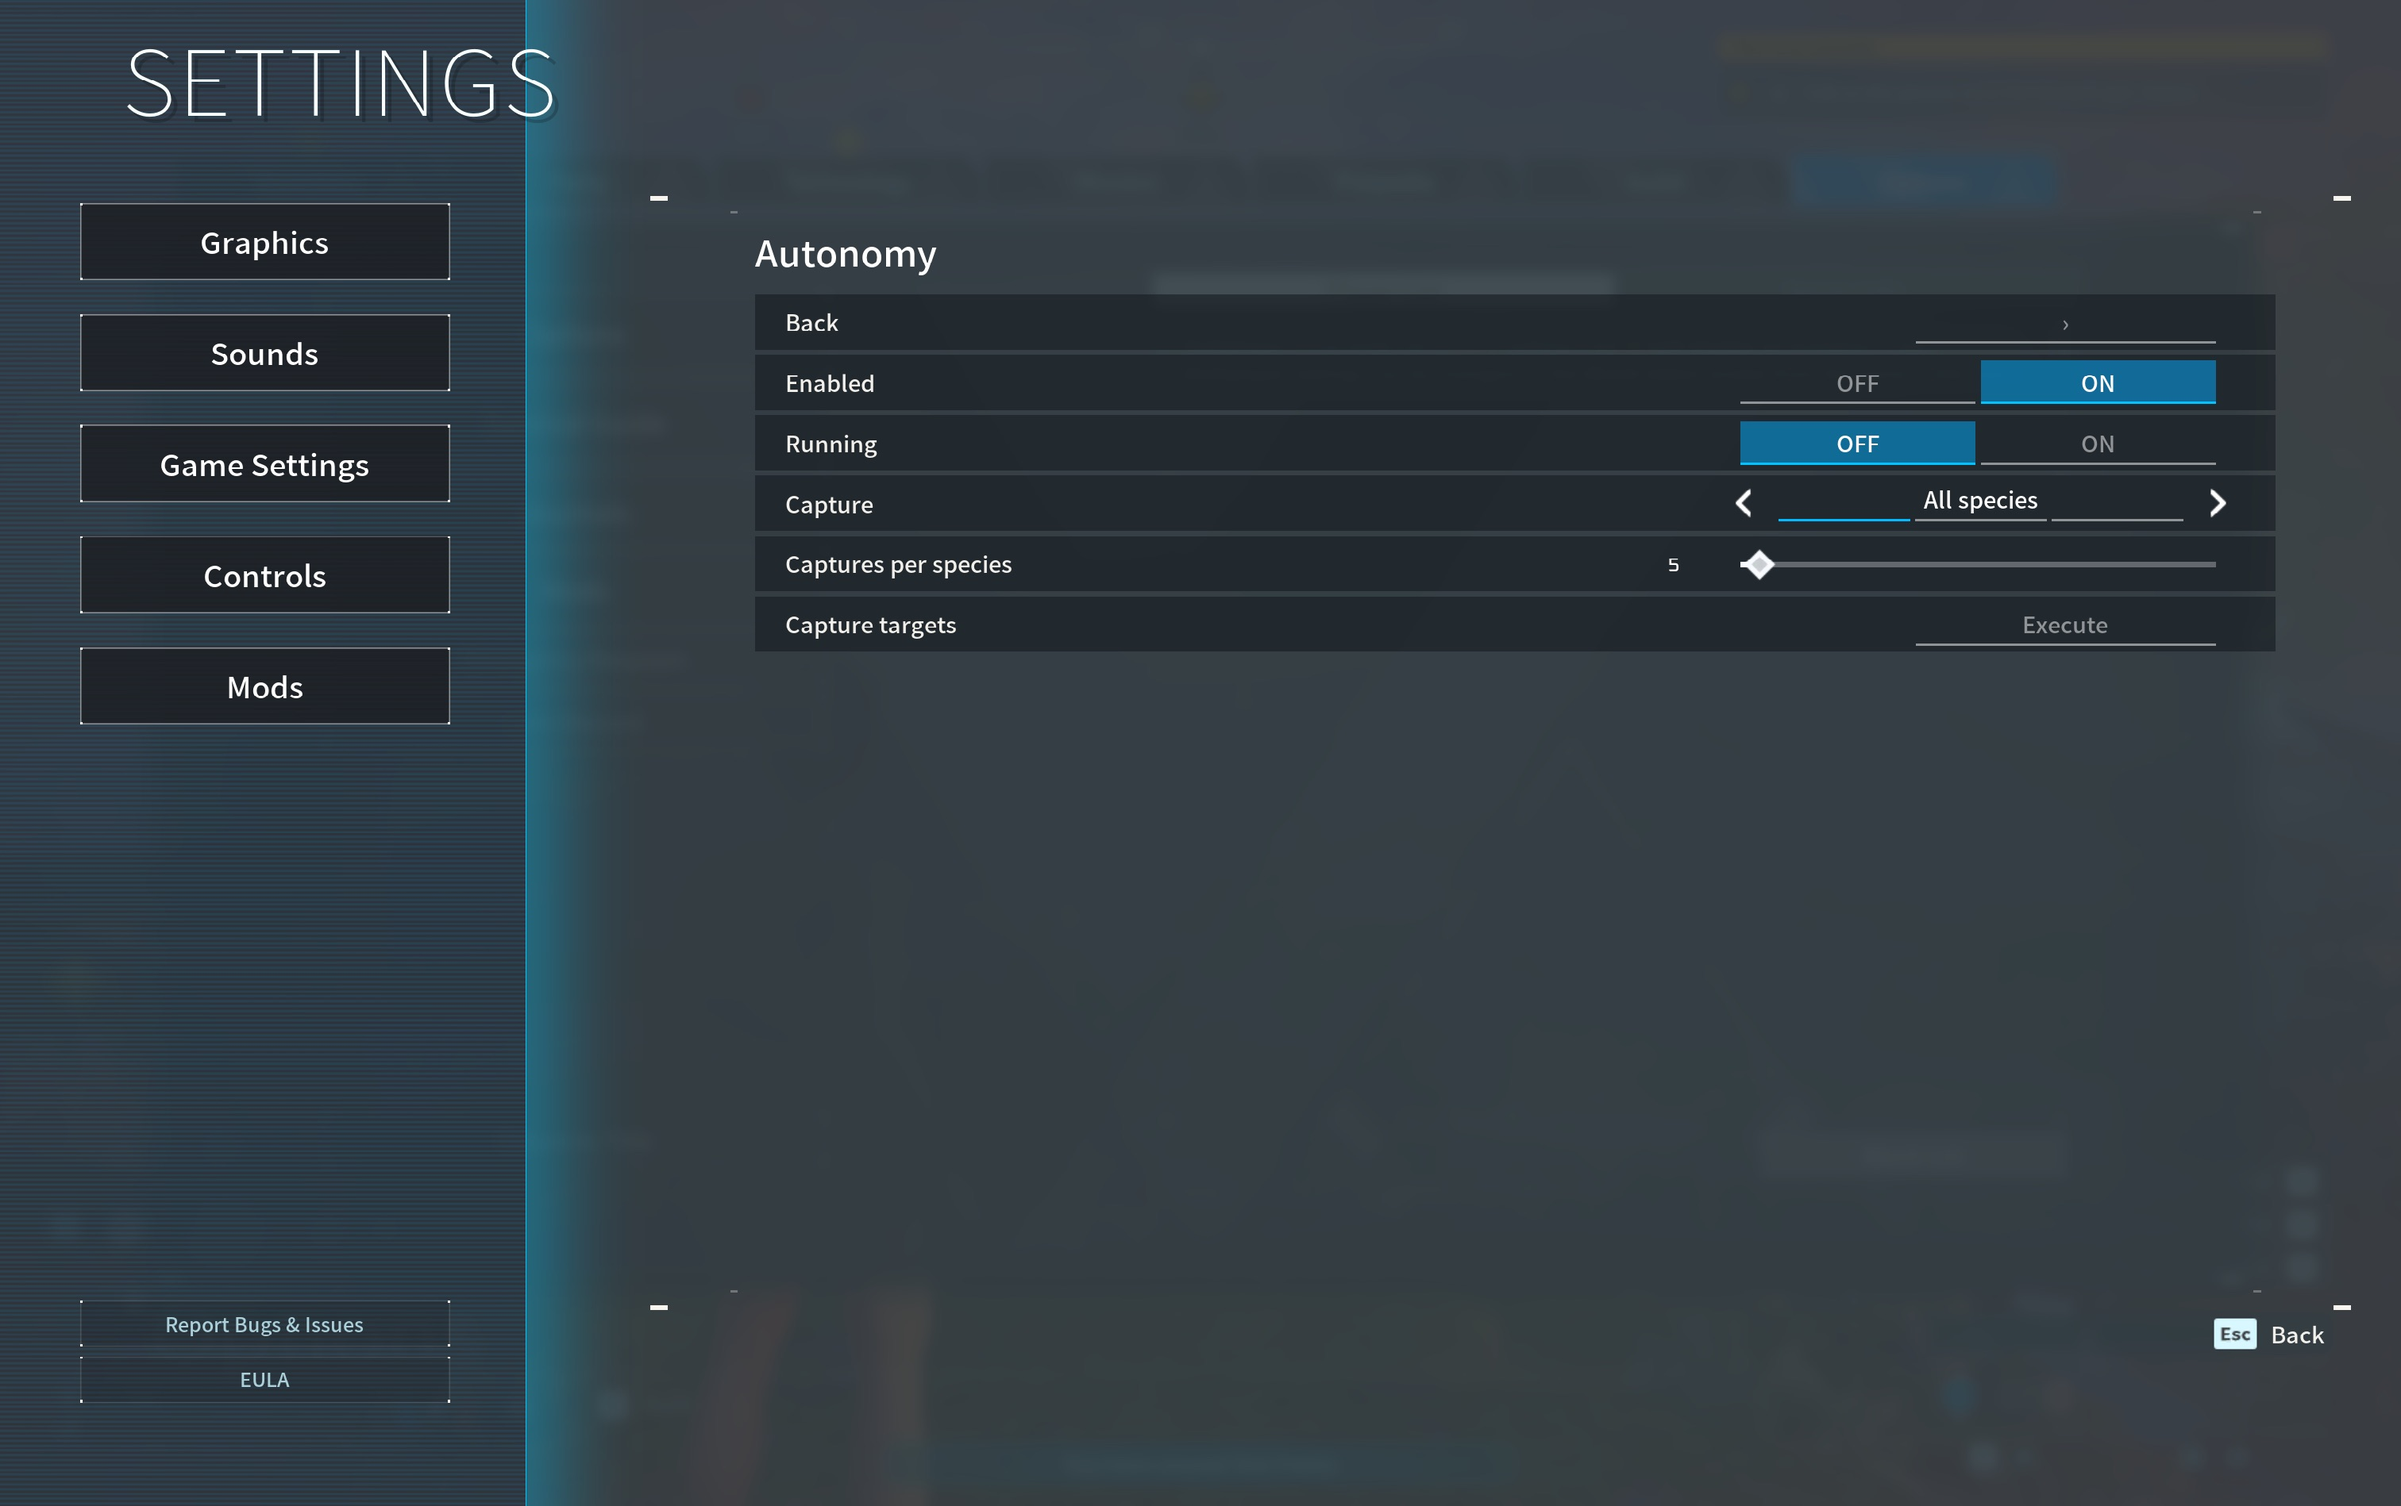
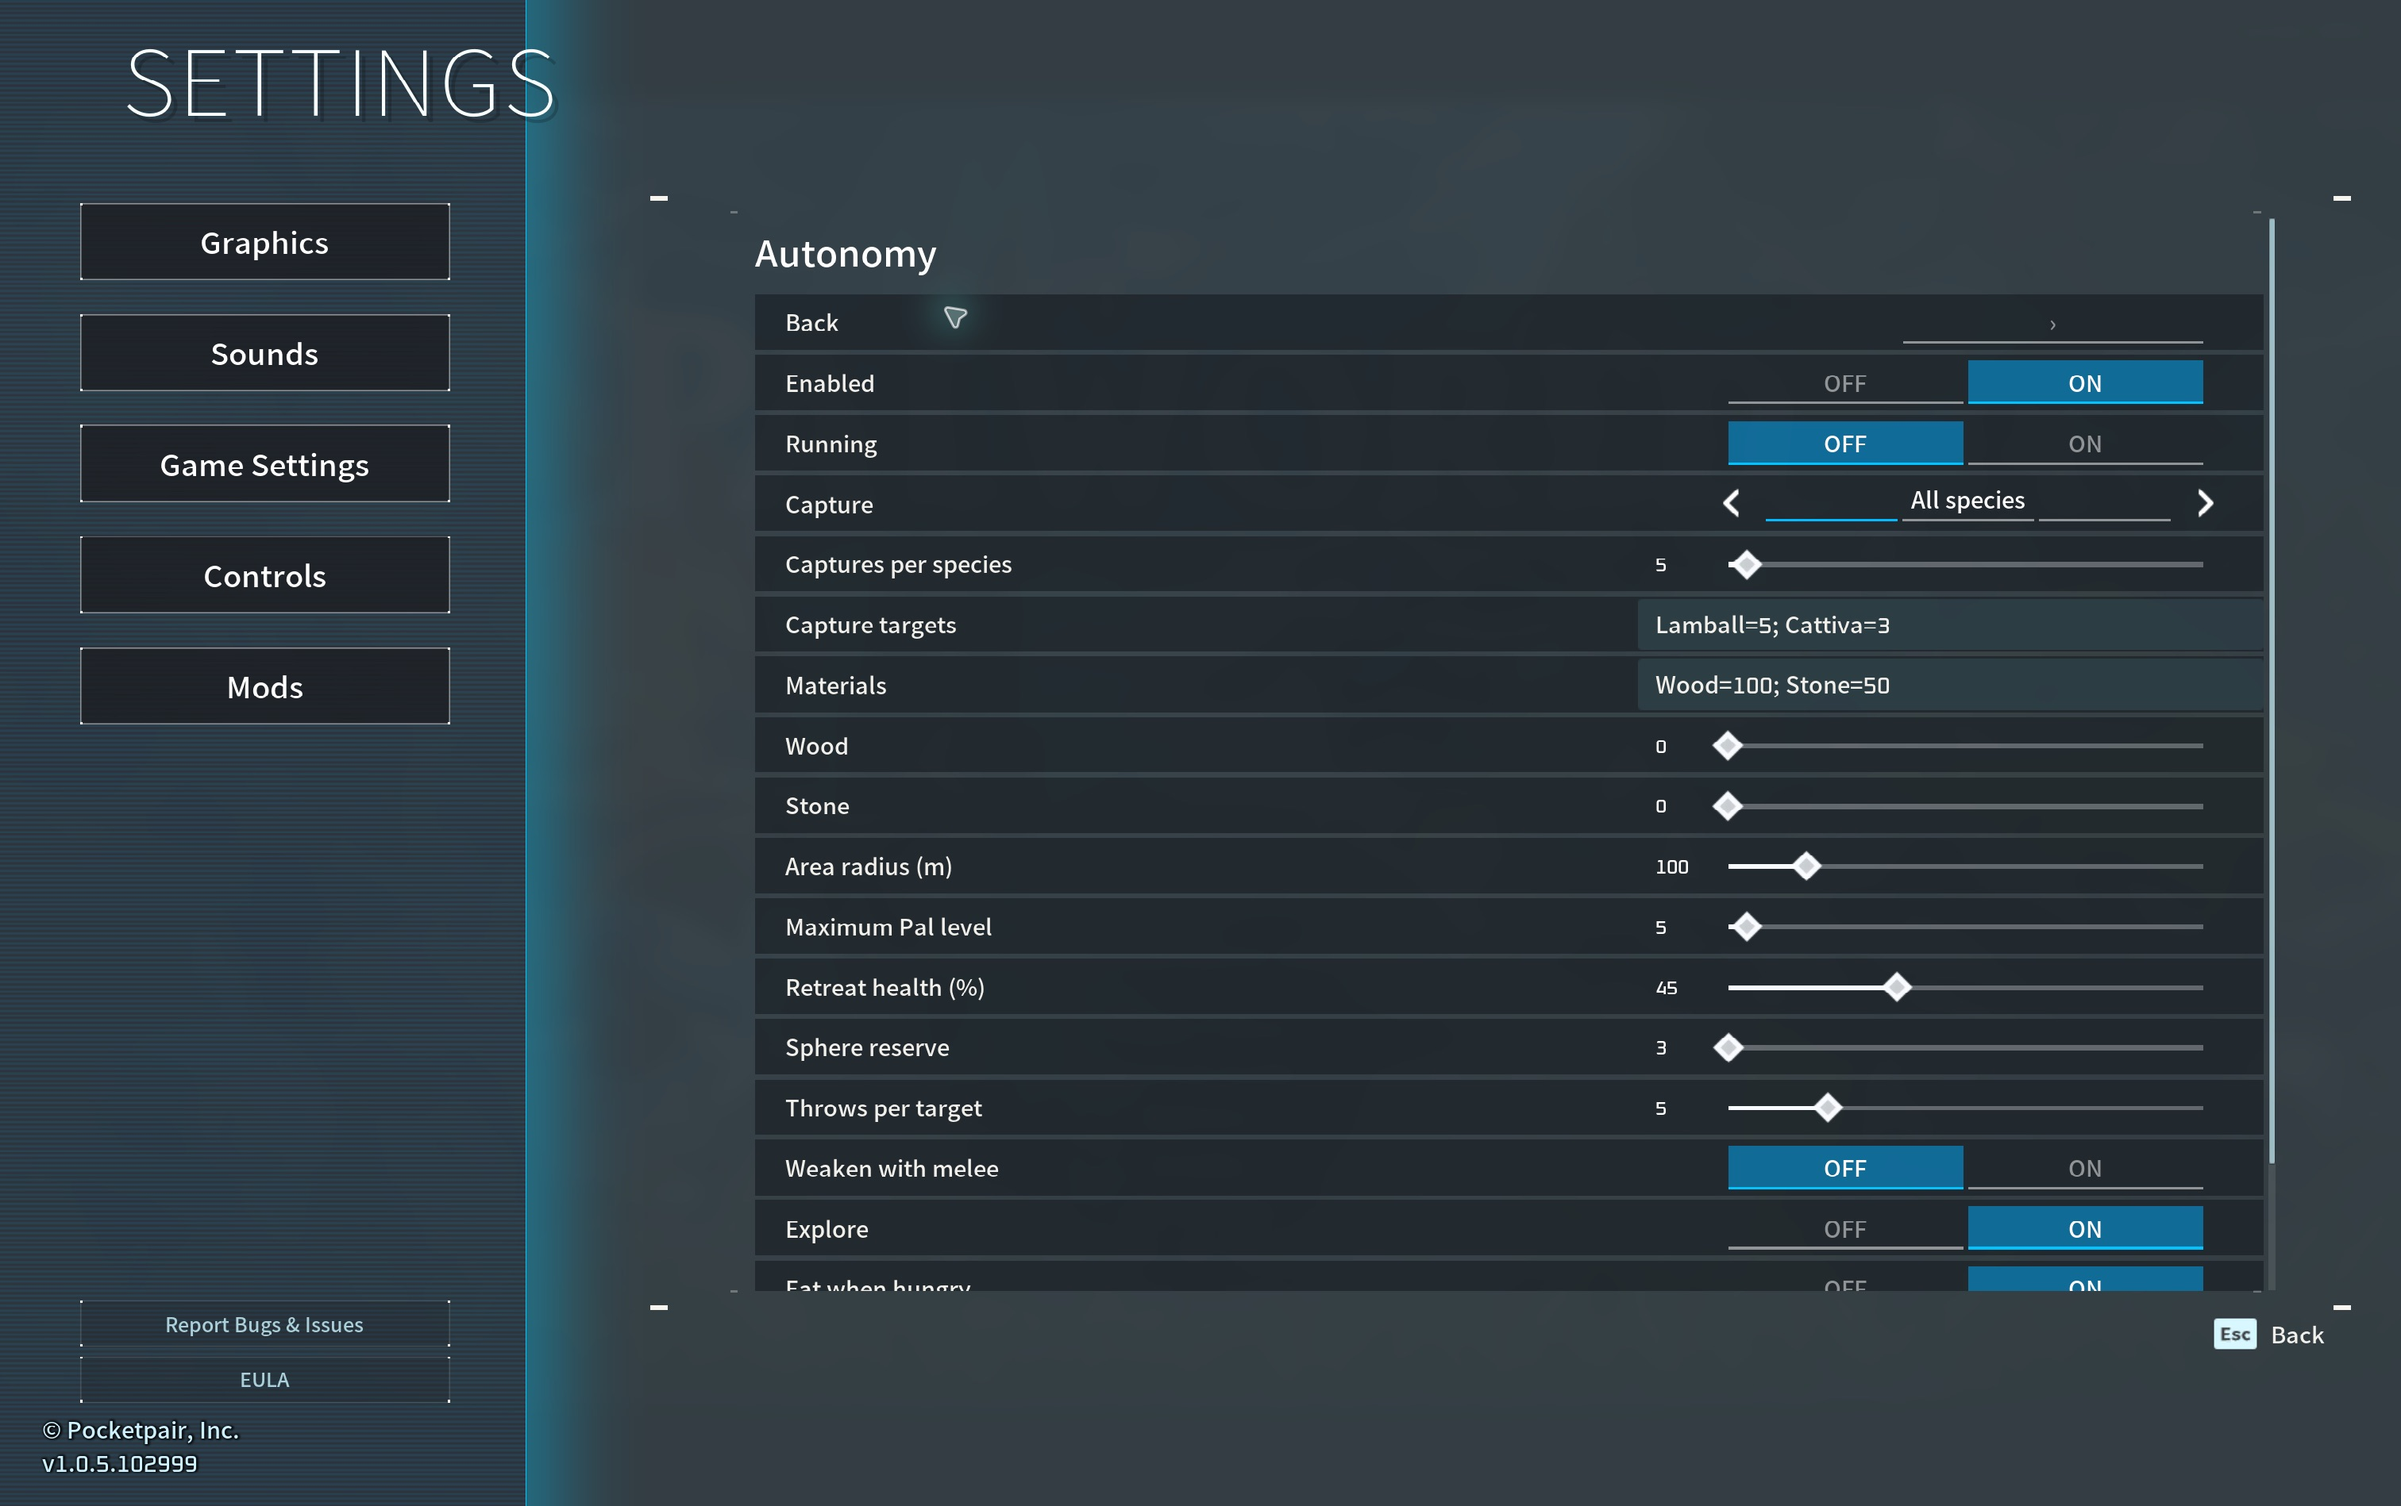
Document complete in-game Autonomy configuration

diff --git a/README.md b/README.md
@@ -24,7 +24,7 @@ local controller act inside the game. No AI account or MCP client is required.
 
 No separate mod download or game restart is needed. Requires Apple silicon,
 macOS 14+, the supported Mac App Store game (app 1.0.8, build 102999), and
-Palworld Mods 0.3.0 or newer. Use the latest app for fixes.
+Palworld Mods 0.4.3 or newer for the complete native settings menu.
 The [app guide](https://github.com/lansbe/palworld-mods#install-in-five-steps)
 also covers macOS first-launch approval.
 
@@ -44,31 +44,31 @@ and aligns the camera before actions. Capture history confirms captures;
 inventory changes confirm gathering. Travel or disabling releases held inputs,
 and death stops the session. It does not spawn supplies or bypass the host's rules.
 
-### Advanced goals and current menu limitation
+### Configure advanced goals in the game
 
-The controller supports selected species, materials, a search radius, a level
-ceiling, sphere reserves, retreat health and a session time limit.
+Open **Options → Mods → Autonomy**. Every setting is available here; scroll down
+for exploration, food, returning home and the session time limit.
 
-| Goal | Value |
+| Goal | Native setting |
 | --- | --- |
-| Bring lifetime captures up to a target | All species, with a captures-per-species quota. |
-| Capture selected species | Selected, with targets such as **Lamball=5; Cattiva=3**. |
-| Gather resources | Materials such as **Wood=100; Stone=50**, or the Wood/Stone goals. |
-| Gather without capturing | Capture mode Off, with material goals set. |
+| Bring lifetime captures up to a target | **Capture → All species**, then **Captures per species**. |
+| Capture selected species | Enter **Lamball=5; Cattiva=3** in **Capture targets**, then choose **Capture → Selected**. |
+| Gather resources | Enter **Wood=100; Stone=50** in **Materials**, or use the **Wood** and **Stone** sliders. |
+| Gather without capturing | Set material goals first, then choose **Capture → Off**. |
 
-**Known issue in Palworld Mods 0.4.2:** in the documented session, the native
-Autonomy panel stopped at Capture targets, showing an inactive Execute control.
-The text fields and later settings were not available in that session. Do not
-expect to configure all advanced goals from that panel until this is fixed.
+Click a text field to edit it, then press **Enter** or click another control to
+save. Use `name=quantity` entries separated by semicolons. Do not specify Wood or
+Stone in both the text field and its dedicated slider. Invalid text shows an
+error beside the field and keeps the last valid saved value; correct it to save.
+Settings are remembered when you close the menu and restart the game.
 
-Advanced users can configure those goals through the optional
-[Palworld MCP bridge](https://github.com/lansbe/palworld-mcp). With the game open,
-this example sets goals while keeping the controller stopped:
+You can also change the search radius, maximum Pal level, retreat health, sphere
+reserve, throws per target and melee weakening. Keep **Running** off while
+preparing goals, then turn it on in a world when ready. It never starts
+automatically when you launch the game.
 
-    ~/.local/bin/palworld-mcp call mods.configure '{"mod":"autonomy","settings":{"running":false,"capture_mode":"selected","targets":"Lamball=5; Cattiva=3","materials":"Wood=100; Stone=50"}}'
-
-Parsed Pal/material identifiers stay the same in every language. Start Running
-only after reviewing your goals and supplies.
+Parsed Pal/material identifiers stay the same in every language. No MCP client,
+terminal command or external settings window is required.
 
 ## Optional: keep Minimap visible
 

diff --git a/docs/screenshots/README.md b/docs/screenshots/README.md
@@ -1,9 +1,11 @@
 # Screenshot notes
 
 These are real, unretouched captures from the Mac App Store edition of Palworld,
-using Palworld Mods 0.4.2, Minimap 0.2.1 and Autonomy 0.2.1 on game build 102999.
+on game build 102999, with Minimap 0.2.1 and Autonomy 0.2.1.
+The Autonomy settings capture uses Palworld Mods 0.4.3; the gameplay capture uses 0.4.2.
 The game and mod interface were temporarily set to English for documentation.
-The capture session took place on October 13, 2026, in a local test world.
+The captures were taken on October 13, 2026. The corrected settings panel was
+captured at the title screen; the Minimap was captured in a local test world.
 
 Images show the native Mods settings, Minimap during gameplay, or the relevant
 mod settings. Autonomy was stopped throughout the session. A screenshot shows
